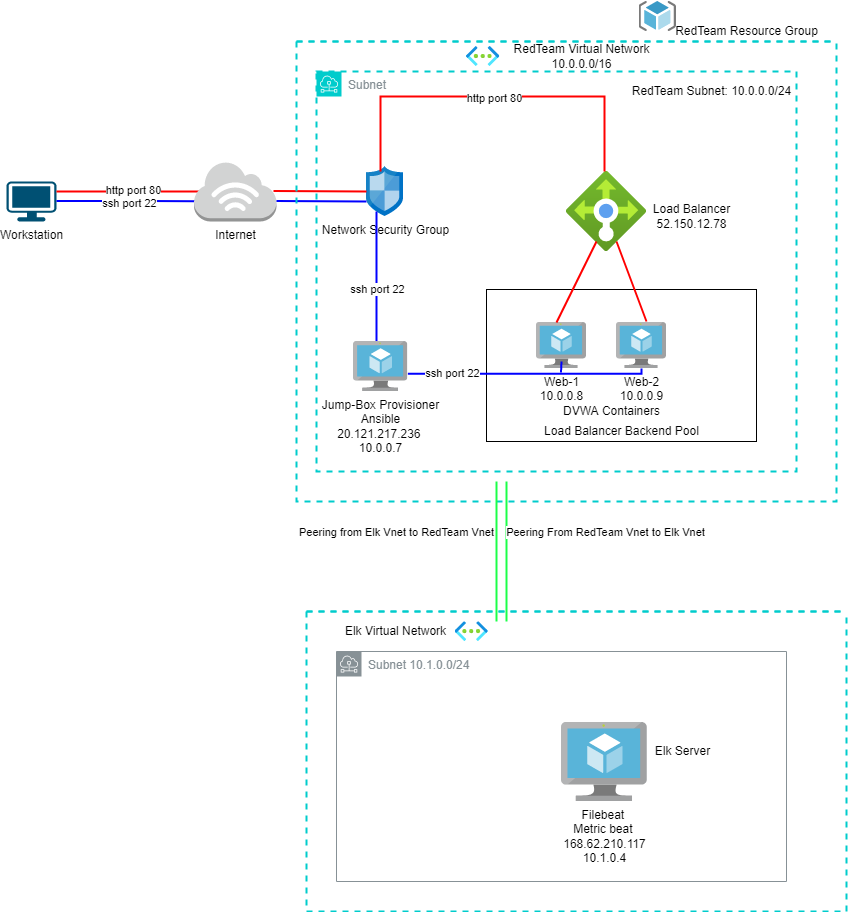
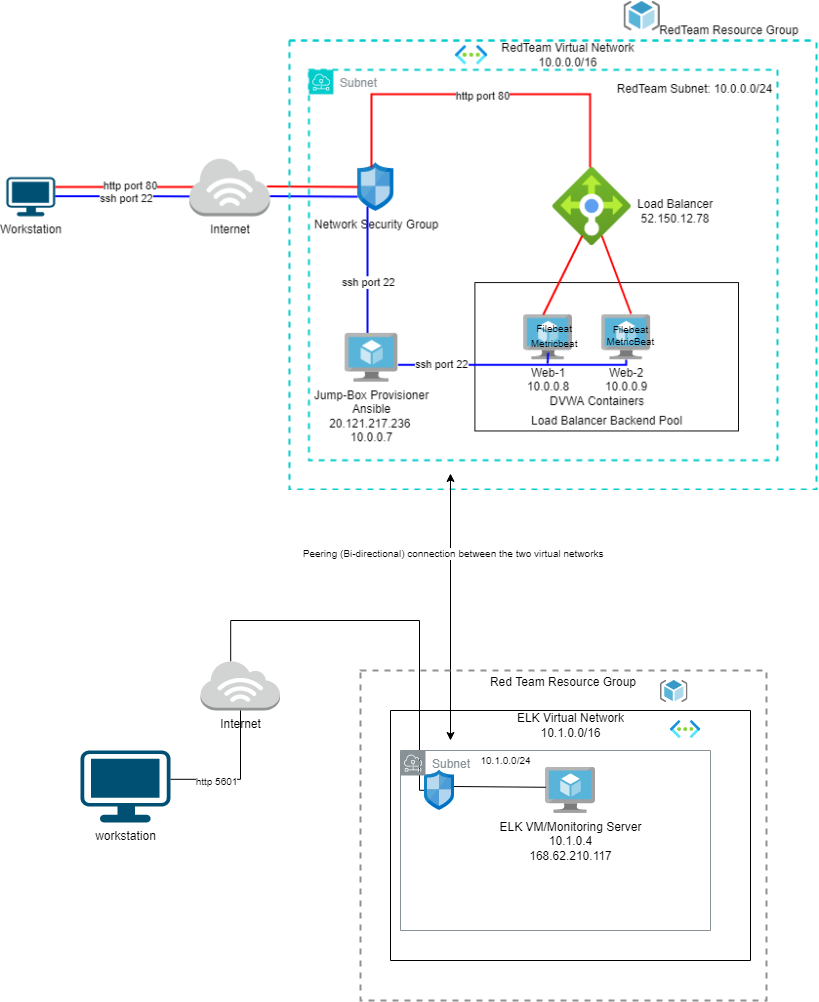
update

diff --git a/README.md b/README.md
@@ -1,37 +1,24 @@
-<<<<<<< HEAD
-=======
+
 # Utor-cyber
->>>>>>> ed728812ecbe1ac1acf2ff98a3baaf2a45580fed
+
 ## Automated ELK Stack Deployment
 
 The files in this repository were used to configure the network depicted below.
 
-<<<<<<< HEAD
-![TODO: Update the path with the name of your diagram](Images/diagram_filename.png)
-![EK PROJECT DIAGRAM](/diagram/roselyn1.png)
-
-These files have been tested and used to generate a live ELK deployment on Azure. They can be used to either recreate the entire deployment pictured above. Alternatively, select portions of the ansible_____ file may be used to install only certain pieces of it, such as Filebeat.
-
-  - _TODO: Enter the playbook file._
-
-
-The configuration details of each machine may be found below.
-_Note: Use the [Markdown Table Generator](http://www.tablesgenerator.com/markdown_tables) to add/remove values from the table_.
-=======
 ![EK PROJECT DIAGRAM](/Diagrams/RedTeamVnet_ELK.png)
 
-These files have been tested and used to generate a live ELK deployment on Azure. They can be used to either recreate the entire deployment pictured above. Alternatively, select portions of the ansible file may be used to install only certain pieces of it, such as Filebeat.
+These files have been tested and used to generate a live ELK deployment on Azure. They can be used to recreate the entire deployment pictured above. Alternatively, select portions of the ansible playbook file may be used to install only certain pieces of it, such as Filebeat.
 
-  - install-elk.yml
-
+  - install-elk
+  - filebeat-playbook
+  - metricbeat-playbook
 
 The configuration details of each machine may be found below.
->>>>>>> ed728812ecbe1ac1acf2ff98a3baaf2a45580fed
 
 | Name      | Function             | IP Address | Operating System |
 |---------- |-------------------   |------------|------------------|
 | Jump Box  | Gateway              | 10.0.0.7   | Linux            |
-| Wev-1     | Web Server           | 10.0.0.8   | Linux            |
+| Web-1     | Web Server           | 10.0.0.8   | Linux            |
 | Web-2     | Web Server           | 10.0.0.9   | Linux            |
 | Elk VM1   | ELK/Monitoring Server| 10.1.0.4   | Linux            |
 
@@ -42,12 +29,7 @@ The machines on the internal network are not exposed to the public Internet.
 Only the Jump Box machine can accept connections from the Internet. Access to this machine is only allowed from the following IP addresses:
 - 90.240.174.234
 
-<<<<<<< HEAD
-Machines within the network can only be accessed by the Jump Box Provisioner: 10.0.0.7. /(put in public ip address)
-- 
-=======
 Machines within the network can only be accessed by the Jump Box Provisioner: 10.0.0.7. / 20.121.217.236
->>>>>>> ed728812ecbe1ac1acf2ff98a3baaf2a45580fed
  
 A summary of the access policies in place can be found in the table below.
 
@@ -56,48 +38,7 @@ A summary of the access policies in place can be found in the table below.
 | Jump Box | Yes                 | 90.240.174.234       |
 | Web-1    | No                  | 10.0.0.7             |
 | Web-2    | No                  | 10.0.0.7             |
-<<<<<<< HEAD
-
-### Elk Configuration
-
-Ansible was used to automate configuration of the ELK machine. No configuration was performed manually, which is advantageous because...
-- _TODO: What is the main advantage of automating configuration with Ansible?_
-
-The playbook implements the following tasks:
-- _TODO: In 3-5 bullets, explain the steps of the ELK installation play. E.g., install Docker; download image; etc._
-- ...
-- ...
-
-The following screenshot displays the result of running `docker ps` after successfully configuring the ELK instance.
-
-![TODO: Update the path with the name of your screenshot of docker ps output](Images/docker_ps_output.png)
-
-### Target Machines & Beats
-This ELK server is configured to monitor the following machines:
-- _TODO: List the IP addresses of the machines you are monitoring_
-
-We have installed the following Beats on these machines:
-- _TODO: Specify which Beats you successfully installed_
-
-These Beats allow us to collect the following information from each machine:
-- _TODO: In 1-2 sentences, explain what kind of data each beat collects, and provide 1 example of what you expect to see. E.g., `Winlogbeat` collects Windows logs, which we use to track user logon events, etc._
-
-### Using the Playbook
-In order to use the playbook, you will need to have an Ansible control node already configured. Assuming you have such a control node provisioned: 
-
-SSH into the control node and follow the steps below:
-- Copy the _____ file to _____.
-- Update the _____ file to include...
-- Run the playbook, and navigate to ____ to check that the installation worked as expected.
-
-_TODO: Answer the following questions to fill in the blanks:_
-- _Which file is the playbook? Where do you copy it?_
-- _Which file do you update to make Ansible run the playbook on a specific machine? How do I specify which machine to install the ELK server on versus which to install Filebeat on?_
-- _Which URL do you navigate to in order to check that the ELK server is running?
-
-_As a **Bonus**, provide the specific commands the user will need to run to download the playbook, update the files, etc._
-=======
-|Elk		   | Yes			           | 90.240.174.234       |
+|Elk       | Yes	         | 90.240.174.234       |
 
 ### Elk Configuration
 
@@ -136,4 +77,3 @@ SSH into the control node and follow the steps below:
 - update /etc/ansible/hosts file with the IP of the specific machine on which to runt he playbook.
 - Navigate to the public IP of the ELK server to check that the ELK server is up and running : http://168.62.210.117:5601/app/kibana#/home
 
->>>>>>> ed728812ecbe1ac1acf2ff98a3baaf2a45580fed
